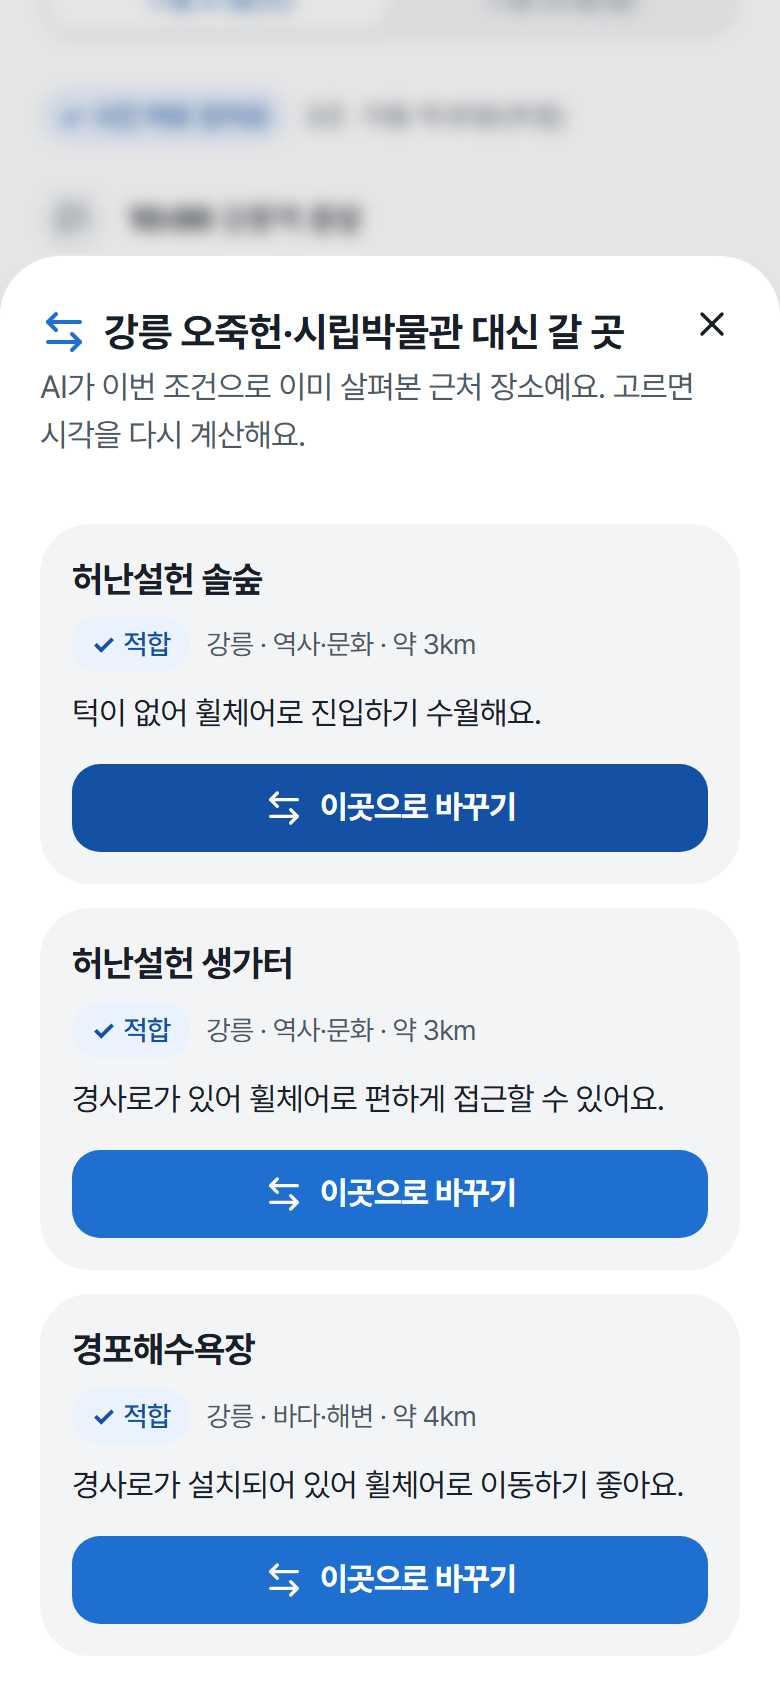
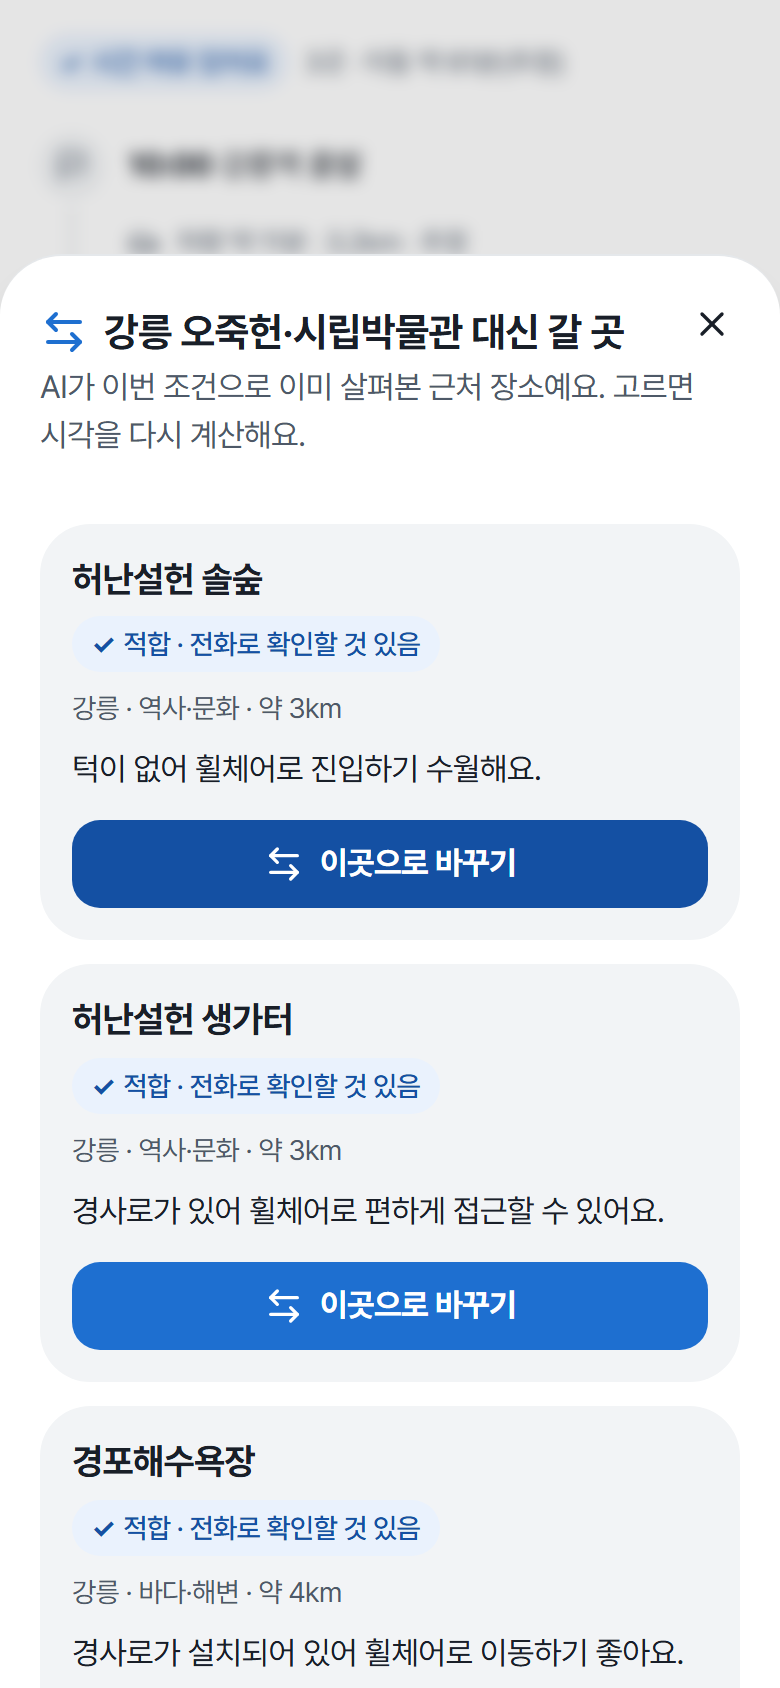
docs: README 캡처를 오늘 화면으로 다시 찍고 설명 갱신(전화 확인 체크리스트 추가)
- 캡처 13장 다시 찍음(표지 포함), 확정 화면의 '출발 전 전화 확인' 캡처 추가
- 결과 화면 설명: 판정 칩, 공식 정보 없음, 전화 확인 수, 괜찮대요/어렵대요
- 검증 수치(단위 121 · E2E 31×2), 개발 현황, 구현 계획에 디자인 점검 내역

Changed region(s): [[0.0923, 0.3697, 0.9231, 1.0], [0.0615, 0.0, 0.8308, 0.154]]

diff --git a/scripts/readme/capture.ts b/scripts/readme/capture.ts
@@ -79,6 +79,19 @@ const SHOTS: Shot[] = [
   },
   { name: "10-final", path: "/trip/new/final", act: waitMap },
   { name: "11-final-desktop", path: "/trip/new/final", desktop: true, act: waitMap },
+  {
+    name: "12-checklist",
+    path: "/trip/new/final",
+    act: async (p) => {
+      await waitMap(p);
+      const g = p.getByRole("group", { name: /전화 결과/ });
+      await g.nth(0).getByRole("button", { name: "괜찮대요" }).click();
+      await g.nth(1).getByRole("button", { name: "어렵대요" }).click();
+      await p.locator("#checklist-title").evaluate((el) => el.scrollIntoView({ block: "start" }));
+      await p.evaluate(() => window.scrollBy(0, -16));
+      await p.waitForTimeout(300);
+    },
+  },
 ];
 
 async function waitMap(p: Page) {

diff --git a/README.md b/README.md
@@ -43,14 +43,15 @@
 | ① 만드는 중 | ② 일정 비교 | ③ 장소 카드 [자세히] |
 | :---: | :---: | :---: |
 | <img src="docs/readme/06-making.png" width="240" alt="AI가 일정을 만들고 있어요: 진행률 48%, 단계 목록, AI가 살펴보는 장소, 진행 기록" /> | <img src="docs/readme/07-result-compare.png" width="240" alt="일정 2가지를 만들었어요: A안 여유롭게, B안 좋아하는 곳 중심 비교 카드와 날짜 탭" /> | <img src="docs/readme/08-result-detail.png" width="240" alt="장소 카드: 시각, 판단 칩, 한 줄 이유, 전화, 바꾸기, 자세히를 펼친 AI 판단 이유·도착하면·근거" /> |
-| **④ 장소 바꾸기** | **⑤ 확정 일정 + 지도** | |
-| <img src="docs/readme/09-swap.png" width="240" alt="강릉 오죽헌·시립박물관 대신 갈 곳: 근처 후보 3곳과 판단, 거리, 이유" /> | <img src="docs/readme/10-final.png" width="240" alt="확정한 일정: 카카오 지도에 장소 번호와 일반 차량 경로선, 시간순 목록" /> | |
+| **④ 장소 바꾸기** | **⑤ 확정 일정 + 지도** | **⑥ 출발 전 전화 확인** |
+| <img src="docs/readme/09-swap.png" width="240" alt="강릉 오죽헌·시립박물관 대신 갈 곳: 근처 후보 3곳과 판단, 거리, 이유" /> | <img src="docs/readme/10-final.png" width="240" alt="확정한 일정: 카카오 지도에 장소 번호와 일반 차량 경로선, 시간순 목록" /> | <img src="docs/readme/12-checklist.png" width="240" alt="출발 전 전화로 확인할 곳: 6곳 중 2곳 확인, 장소마다 물어볼 것과 전화, 괜찮대요/어렵대요, 어려우면 다른 곳으로 바꾸기" /> |
 
 1. **만드는 중**: 진행률과 단계, AI가 살펴보는 장소, 진행 기록("장소 판단 3/3번째 끝", "B안: 운영시간을 넘는 곳이 있어 고치는 중")을 서버에서 받은 그대로 보여줍니다.
-2. **일정 비교**: 성격이 다른 2~3안(여유롭게 / 좋아하는 곳 중심 / 확인할 것 적게) — 장소 수, 이동 시간, 확인할 곳 수, AI 점검 점수(피로도·시간 여유·취향).
-3. **장소 카드**: 처음에는 핵심만(도착 예상 시각 · 판단과 확신도 · 한 줄 이유 · 공식 전화). [자세히]를 누르면 AI 판단 이유, 도착하면(장애인 주차 → 출입구 → 화장실), 출발 전 확인 질문, 근거(관광공사 원문 항목)가 펼쳐집니다.
+2. **일정 비교**: 성격이 다른 2~3안(여유롭게 / 좋아하는 곳 중심 / 확인할 것 적게)을 같은 줄에 맞춰 비교합니다 — 장소 수, 이동 시간, **전화로 확인할 곳 수**, AI 점검("몸 부담 적은 편 · 시간 여유 있음"처럼 말로).
+3. **장소 카드**: 처음에는 핵심만 — 도착 예상 시각, 판단(예: "✓ 적합 · 전화로 확인할 것 있음"), 공식 정보가 없는 항목("공식 정보 없음: 노면"), 한 줄 이유, 공식 전화. [자세히]를 누르면 AI 판단 이유, 도착하면(장애인 주차 → 출입구 → 화장실), 전화로 물어볼 것, 근거(관광공사 원문 항목)가 펼쳐집니다.
 4. **장소 바꾸기**: AI가 이미 판단해 둔 근처 장소(최대 3곳)로 바꿉니다. AI를 다시 부르지 않고 코드가 그 자리에서 시각과 운영시간을 다시 계산·검사하고, 걸리면 이유를 보여주고 바꾸지 않습니다. 원래 장소로 되돌릴 수 있습니다.
-5. **확정 일정**: 정한 안 하나만 남기고 카카오 지도에 장소 번호와 **일반 차량 경로선**을 그립니다. 출발 전 확인할 것(질문 + 전화)을 한곳에 모았습니다. 경로는 열 때마다 새로 받고 저장하지 않습니다.
+5. **확정 일정**: 정한 안 하나만 남기고 카카오 지도에 장소 번호와 **일반 차량 경로선**을 그립니다. 경로는 열 때마다 새로 받고 저장하지 않습니다. 인쇄·PDF로 저장할 수 있습니다.
+6. **출발 전 전화 확인**: 날짜별로 장소마다 물어볼 것(같은 주제의 질문은 하나로)과 공식 전화를 모았습니다. 통화 뒤 **[괜찮대요] / [어렵대요]**를 누르면 진행률이 쌓이고, '어렵대요'면 그 자리에서 다른 곳으로 바꾸기를 권합니다. 모두 괜찮으면 "출발 준비 끝!"을 보여줍니다.
 
 <img src="docs/readme/11-final-desktop.png" width="100%" alt="PC 확정 일정: 왼쪽 카카오 지도와 경로선, 오른쪽 시간순 일정" />
 
@@ -170,7 +171,7 @@ AI 점검: 피로도 4 · 시간 여유 4 · 취향 4
 
 | 항목 | 목표 | 현재 |
 | --- | --- | --- |
-| 자동 테스트 | 모두 통과 | [![CI](https://github.com/ieumgil/ieumgil-ai/actions/workflows/ci.yml/badge.svg)](https://github.com/ieumgil/ieumgil-ai/actions/workflows/ci.yml) 단위 117개 · 화면 흐름(E2E) 26개 × 모바일·PC |
+| 자동 테스트 | 모두 통과 | [![CI](https://github.com/ieumgil/ieumgil-ai/actions/workflows/ci.yml/badge.svg)](https://github.com/ieumgil/ieumgil-ai/actions/workflows/ci.yml) 단위 121개 · 화면 흐름(E2E) 31개 × 모바일·PC |
 | 장소 바꾸기 | 부적합·이미 있는 곳으로 바꾸기 0건 · 검사에 걸리면 안 바꿈 · 시각은 코드 값 | **모두 통과** (단위 6개 + E2E) |
 | 카카오 경로 | 길찾기 결과 저장 0건 · 키는 서버에서만 · 영동권 밖 좌표 거부 | **모두 통과** (단위 4개 + E2E) |
 | 엔진 시나리오 10개 + 유형 조합 14개 | 필수 조건 위반 0건 | **0건** |
@@ -192,7 +193,9 @@ AI 점검: 피로도 4 · 시간 여유 4 · 취향 4
 - [x] 웹 연결: `/api/plan`(진행 기록 스트리밍) → 만드는 중(실제 진행 표시) → 안 비교 → 시간순 카드
 - [x] 결과 화면 정리(핵심만 먼저, [자세히]), 움직임·글자 크기 단계
 - [x] 장소 바꾸기(AI가 판단한 근처 후보, 코드가 다시 계산·검사)
-- [x] 일정 확정 → 확정 일정 + 카카오 지도·일반 차량 경로선
+- [x] 일정 확정 → 확정 일정 + 카카오 지도·일반 차량 경로선 · 인쇄·PDF
+- [x] 출발 전 전화 확인 체크리스트(괜찮대요/어렵대요, 어려우면 바로 바꾸기)
+- [x] 디자인 점검(닐슨 휴리스틱 평가 2회 + 자동 접근성 측정, 대비·포커스·용어·정보 위계 개선)
 - [ ] 예시 루트(심사용, AI 호출 없이 열림) · 배포
 - [ ] 안 비교 화면에 지도 · 카카오 이동시간을 일정 시각에 반영(지금은 직선거리 추정)
 - [ ] AI 추가 질문 · 도착 후 동선 다듬기

diff --git a/docs/impl-plan.md b/docs/impl-plan.md
@@ -69,6 +69,14 @@ LLM이 실패했을 때의 규칙 판단은 엄격(필수 '모름'이 있으면 
 | 루트 순서 검증(지도를 보고) | 지도를 띄운 뒤 사용자가 확인. 필요하면 순서 바꾸기·빼기 | 남음 |
 | README를 결과 화면 캡처와 LLM 흐름 그림으로 | 캡처를 새 화면으로 다시 찍음(`scripts/readme/capture.ts`) | ✅ |
 
+## 디자인 점검 (11/11)
+
+닐슨 휴리스틱 평가(디자인 리뷰 + 자동 접근성 측정을 따로 돌려 합침) 2회 → 고친 것:
+대비 부족 3곳, 버튼 포커스 테두리, 지도 캡션이 축척 가림, '확인' 용어(판정 '확인 필요' vs 질문 '전화로 물어볼 것', 안 비교의 '전화 확인 N곳'),
+판정 칩 '적합 · 전화로 확인할 것 있음'(11/10 판단 규칙 그대로, 문서 문구 정리), 장소 카드 정보 덜기, 바꾸기 결과 알림,
+확정 창 줄이기, 확정 화면 전화 확인 체크리스트(괜찮대요/어렵대요 → 바로 바꾸기, 출발 준비 끝, 인쇄), 안 비교 세로 배치·안 바꿀 때 알림.
+남은 작은 것: 바꾸기 후보 버튼 무게, 확정 화면에 '도착하면' 동선, 안전 각주 위치.
+
 ## 지금 상태 (11/10 마감)
 
 **되는 것**: 시작 → 입력 4단계 → 만드는 중(실제 진행) → 일정 2~3안 비교 → 고른 안 상세(날짜 탭·타임라인·[자세히]) → 장소 바꾸기 →
